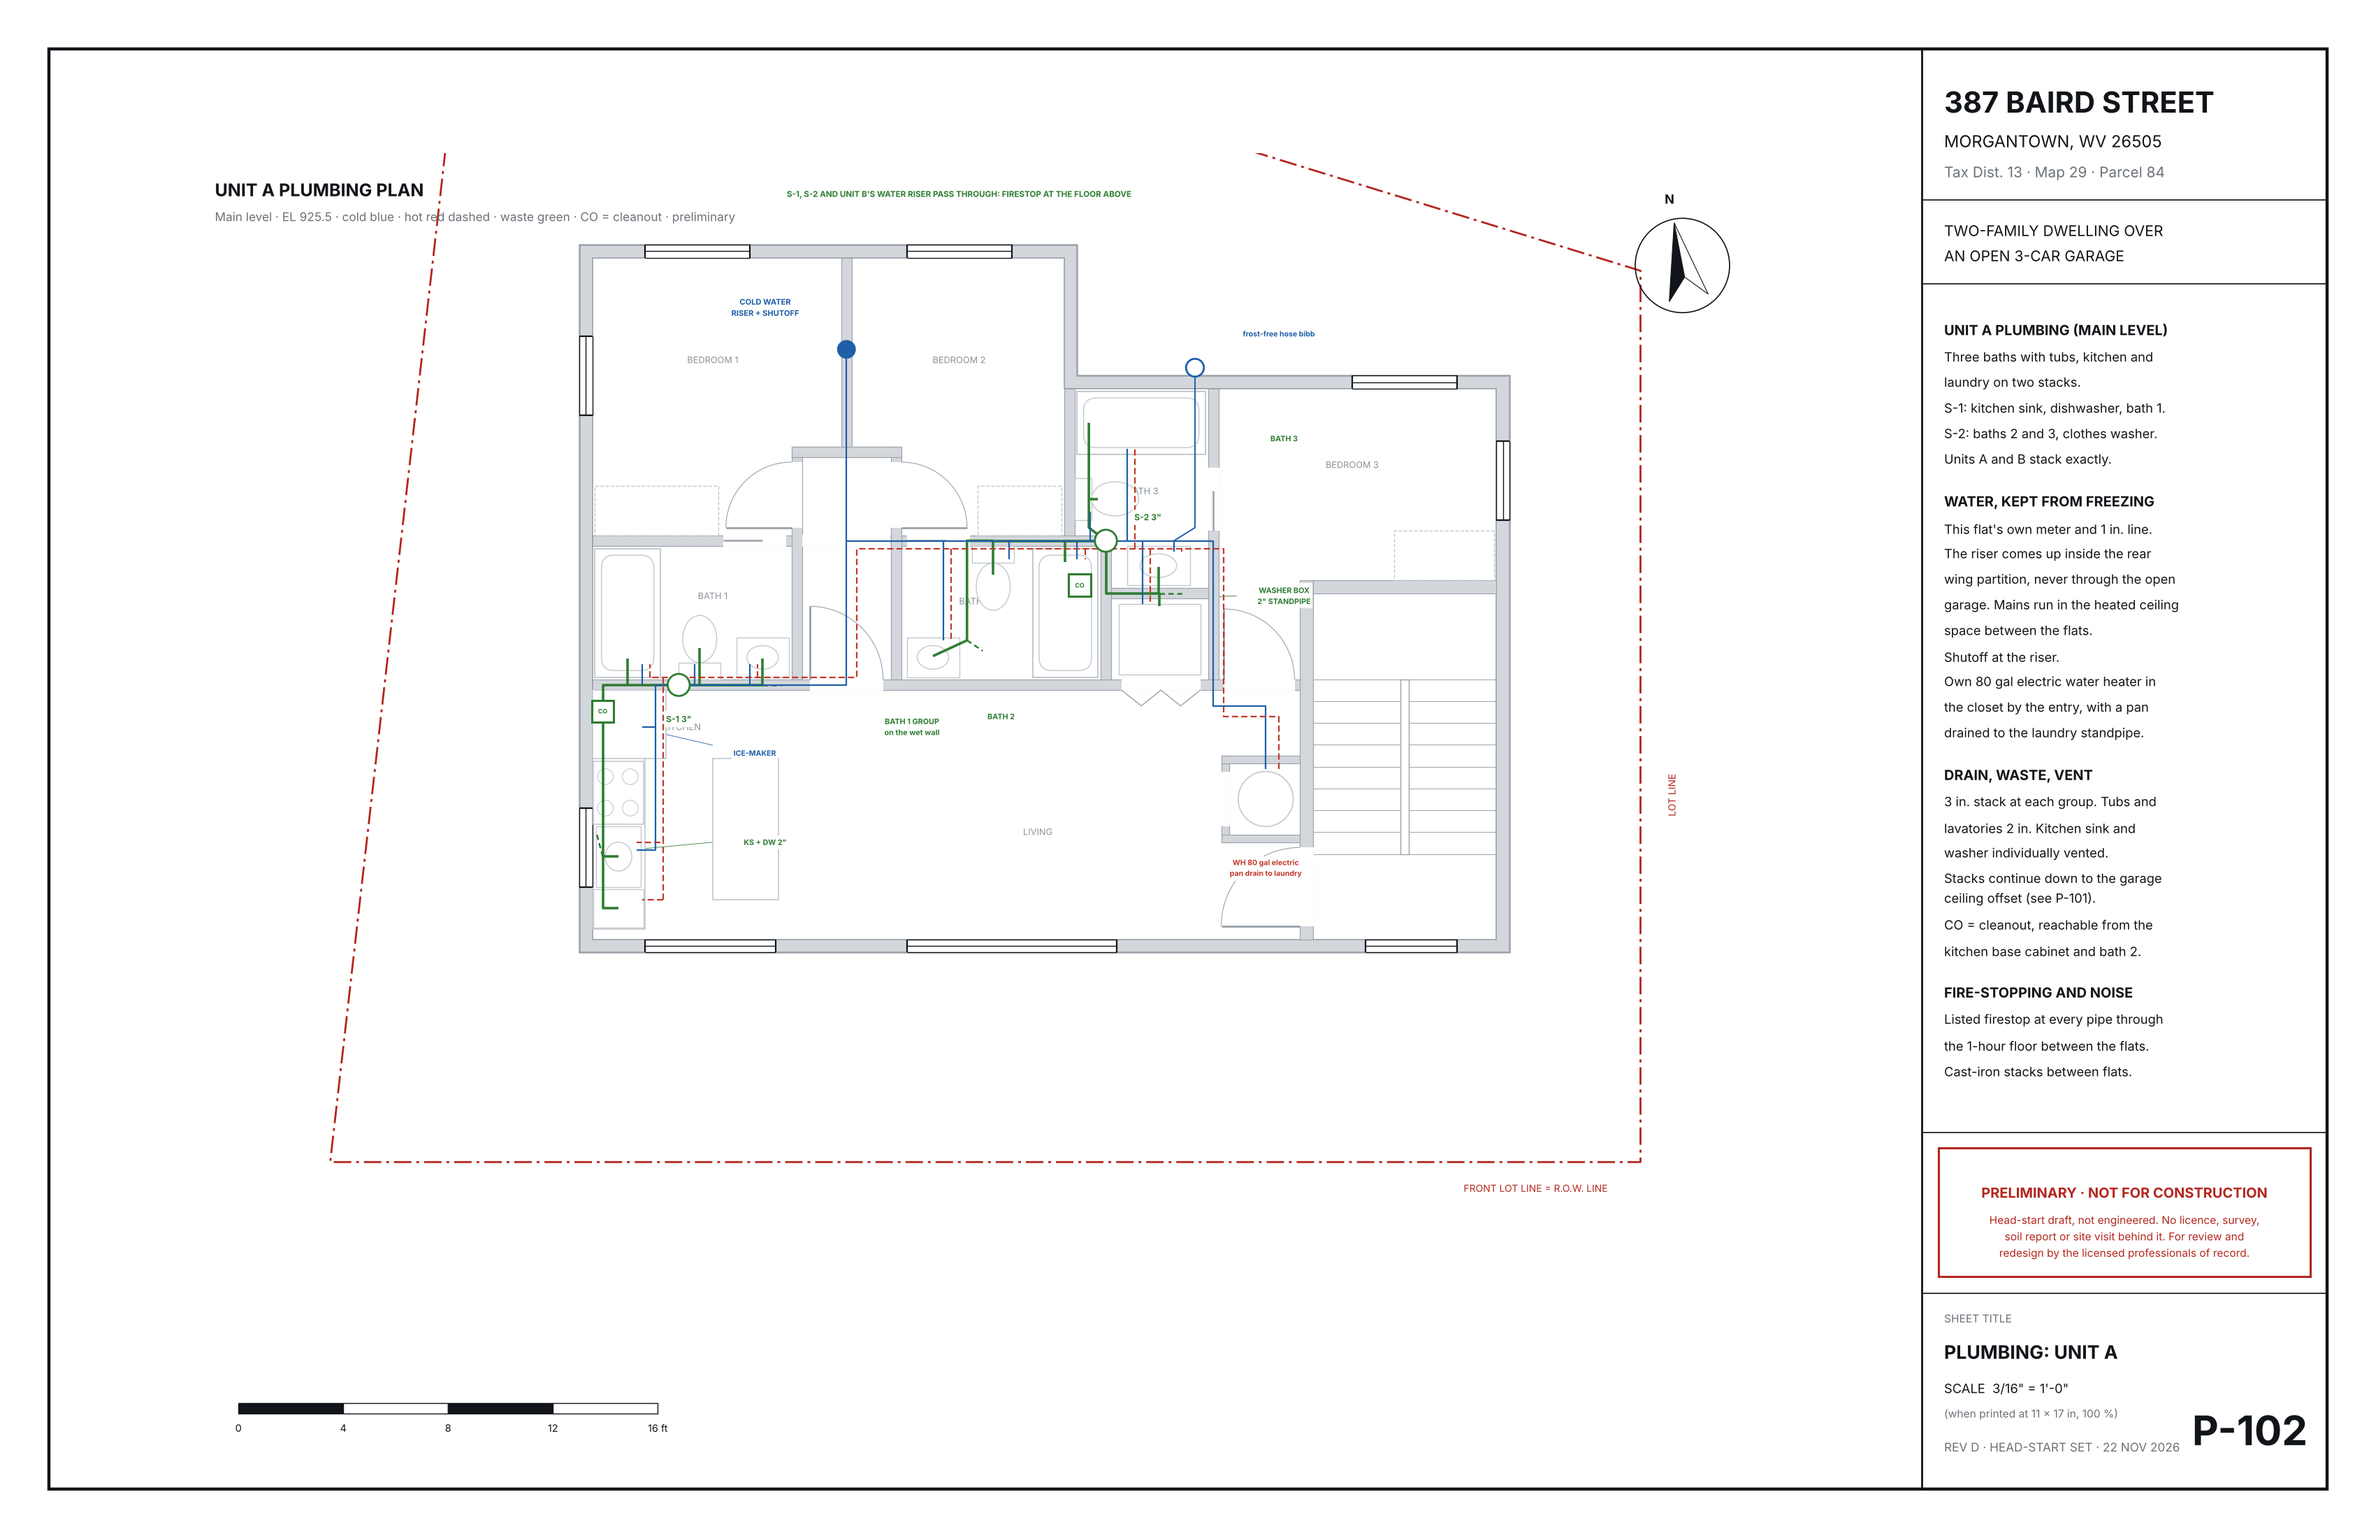
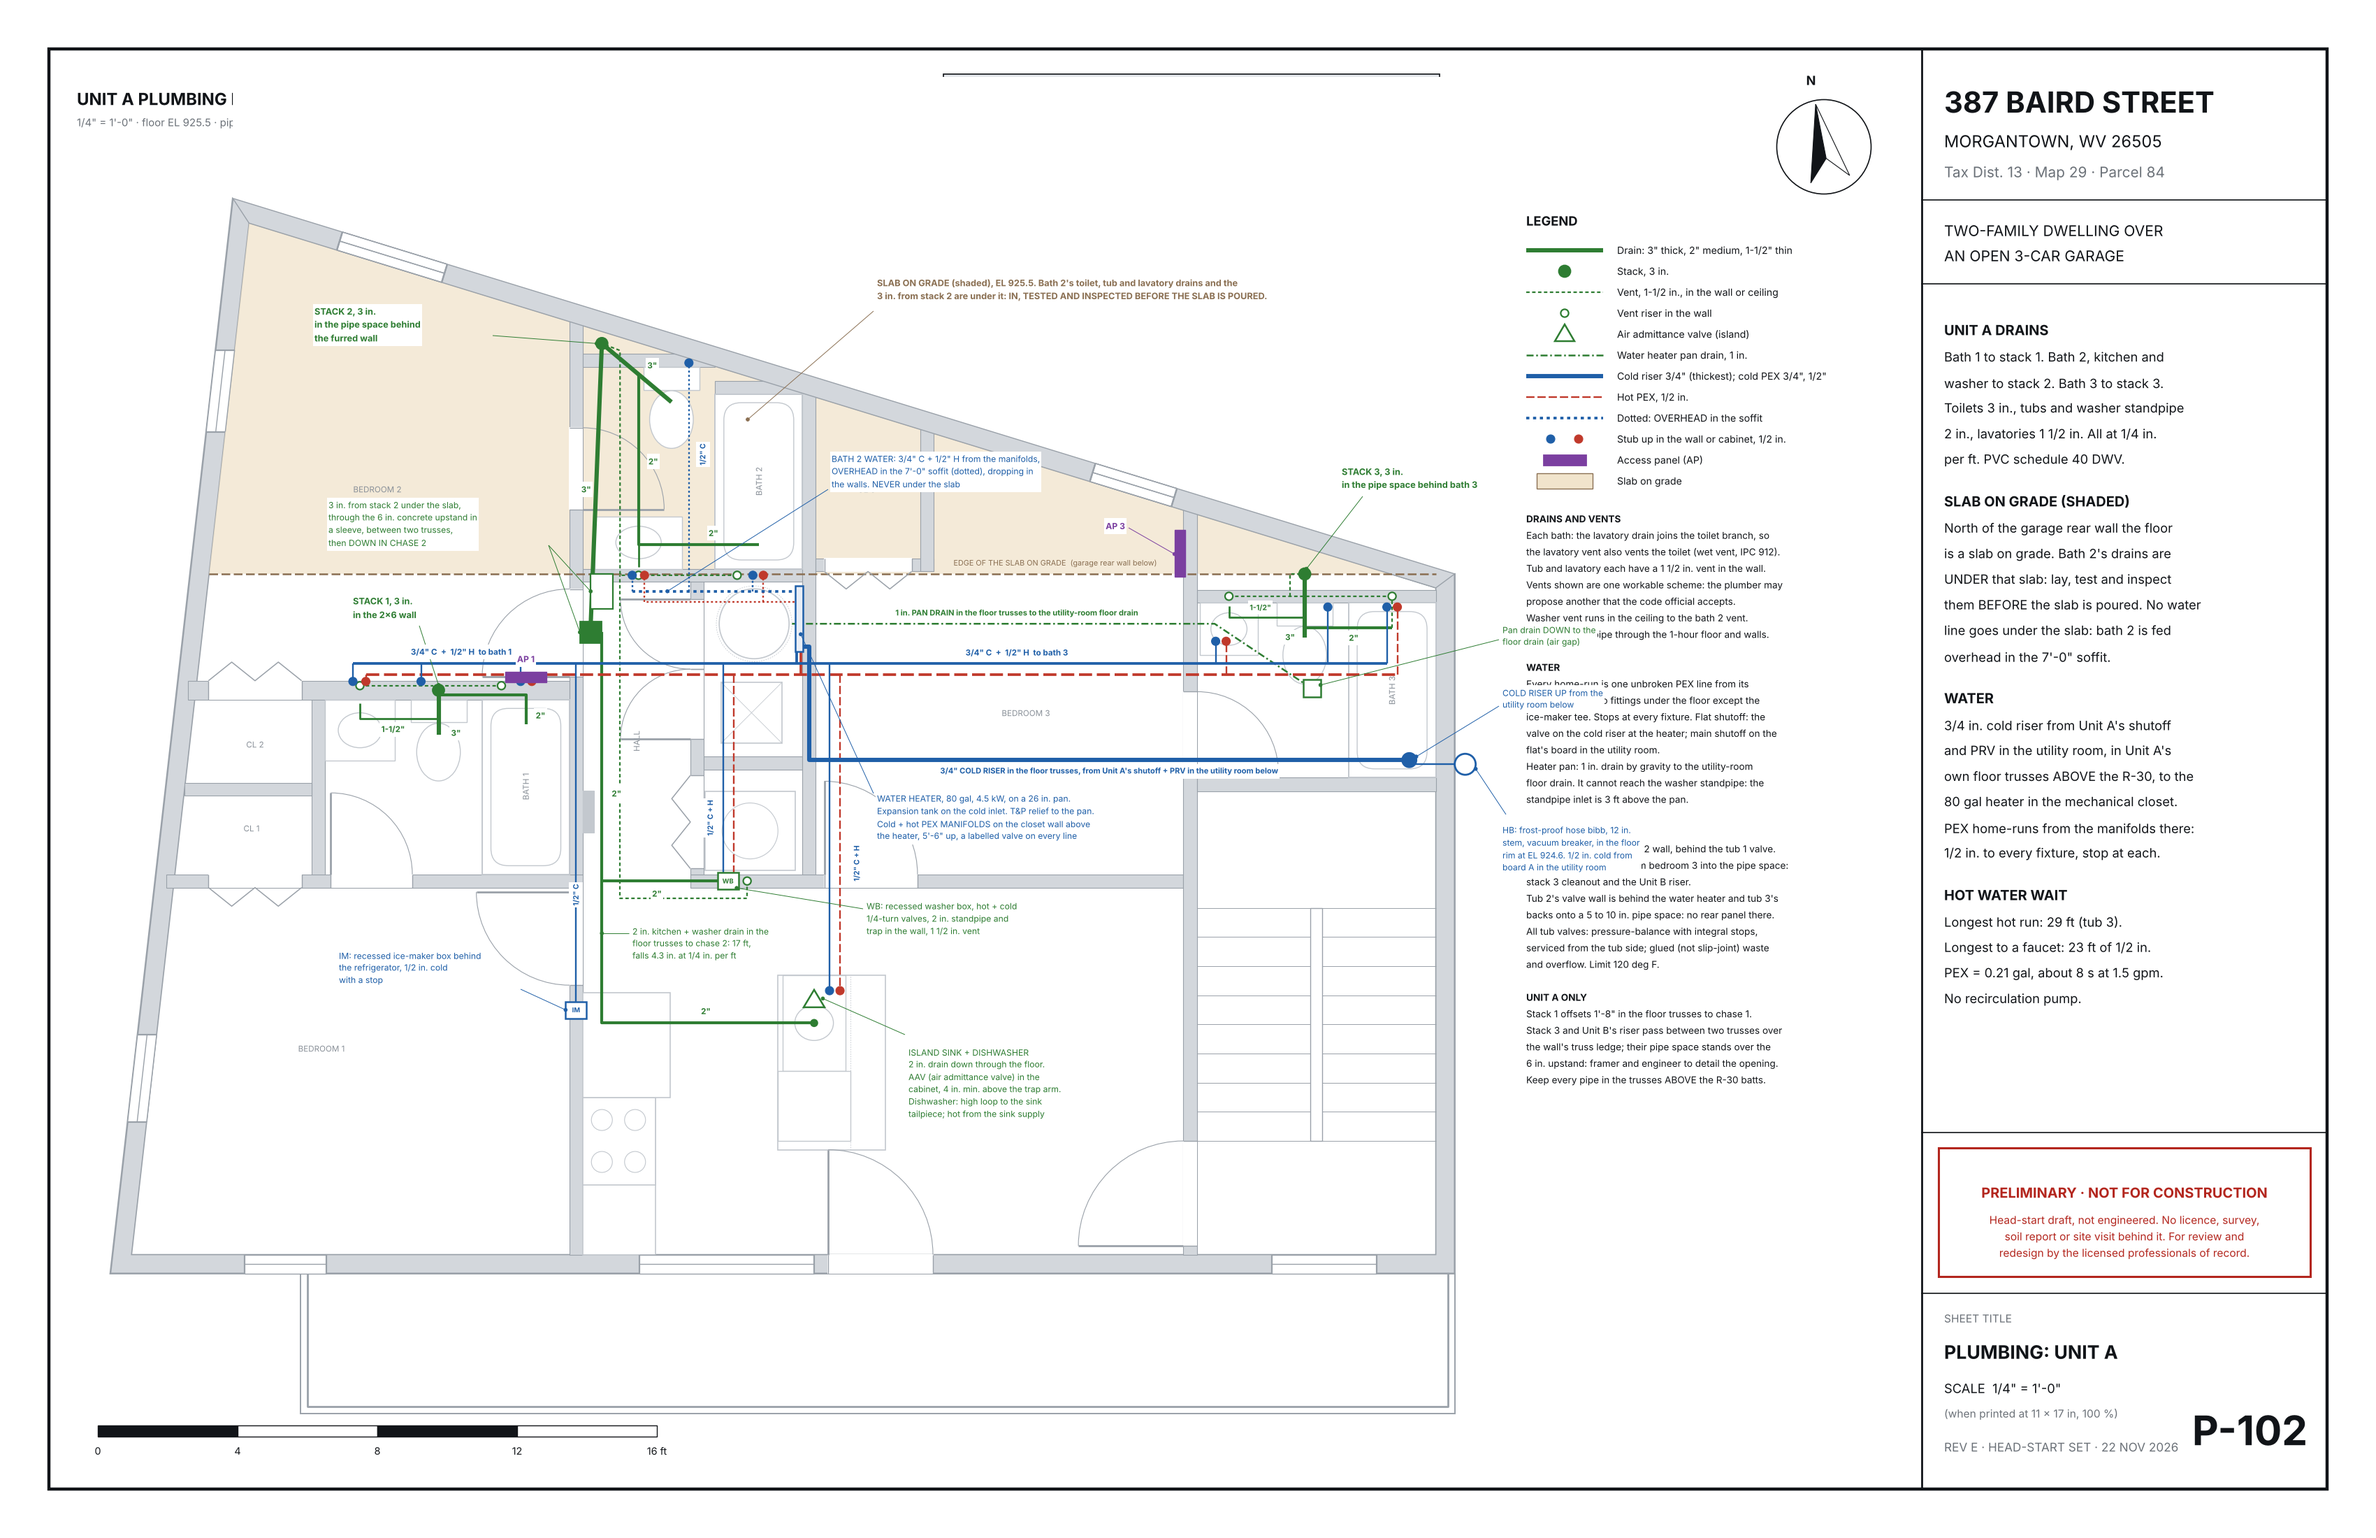
Rev E in progress: remaining trade sheets continuing
Claude-Session: https://claude.ai/code/session_016eFDD5ddAYxvJDci7BiMtr

diff --git a/src/sheets_p.py b/src/sheets_p.py
@@ -576,8 +576,7 @@ def unit_plumbing(ax, unit):
         ax.add_patch(Circle(p, u(ax, 0.028), fc=PAPER, ec=VENT, lw=0.8, zorder=12))
 
     def sz(x, y, s, color=SAN, rot=0, size=4.2):
-        txt(ax, x, y, s, size=size, color=color, weight="bold", rot=rot, z=14,
-            bbox=dict(fc=PAPER, ec="none", pad=0.3))
+        txt(ax, x, y, s, size=size, color=color, weight="bold", rot=rot, z=14, box=True)
 
     # ---------------- bath 1 -> stack 1 ----------------
     wc1 = (m.WCS[0][0], m.WCS[0][1] - 1.0)
@@ -798,7 +797,6 @@ def unit_sheet(pdf, number, unit):
     g = unit_plumbing(ax, unit)
     s1, s2, s3 = m.STACK_1, m.STACK_2, m.STACK_3
     vtr = ", VTR" if not A else ""
-    wbox = dict(fc=PAPER, ec="none", pad=0.3)
 
     # ---------------- labels on the plan ----------------
     note(ax, 13.3, 29.2, f"STACK 1, 3 in.{vtr}\nin the 2x6 wall", to=(s1[0], s1[1] + 0.15), color=SAN, size=4.6, weight="bold", frm=(15.2, 28.7))
@@ -813,20 +811,20 @@ def unit_sheet(pdf, number, unit):
     note(ax, 12.9, 18.9, "IM: recessed ice-maker box behind\nthe refrigerator, 1/2 in. cold\nwith a stop", to=(g["im"][0] - 0.3, g["im"][1]), color=CW, size=4.4, frm=(18.1, 18.3))
     note(ax, 28.3, 23.2, "WATER HEATER, 80 gal, 4.5 kW, on a 26 in. pan.\nExpansion tank on the cold inlet. T&P relief to the pan.\nCold + hot PEX MANIFOLDS on the closet wall above\nthe heater, 5'-6\" up, a labelled valve on every line",
          to=(MAN_X + 0.05, MAN_Y[0] + 0.5), color=CW, size=4.4, frm=(28.2, 23.9))
-    txt(ax, 32.3, YC + 0.3, "3/4\" C  +  1/2\" H  to bath 3", size=4.2, color=CW, weight="bold", z=14, bbox=wbox)
-    txt(ax, 16.4, YC + 0.32, "3/4\" C  +  1/2\" H  to bath 1", size=4.2, color=CW, weight="bold", z=14, bbox=wbox)
-    txt(ax, 32.3, g["yp"] + 0.3, "1 in. PAN DRAIN in the floor trusses to the utility-room floor drain", size=4.0, color=SAN, weight="bold", z=14, bbox=wbox)
-    txt(ax, g["xk"] + 0.78, 21.9, "1/2\" C + H", size=3.8, color=CW, weight="bold", rot=90, z=14, bbox=wbox)
-    txt(ax, g["wb"][0] - 0.5, 23.2, "1/2\" C + H", size=3.8, color=CW, weight="bold", rot=90, z=14, bbox=wbox)
-    txt(ax, g["xwc"] + 0.4, 33.6, "1/2\" C", size=3.8, color=CW, weight="bold", rot=90, z=14, bbox=wbox)
-    txt(ax, g["im"][0], 21.0, "1/2\" C", size=3.8, color=CW, weight="bold", rot=90, z=14, bbox=wbox)
+    txt(ax, 32.3, YC + 0.3, "3/4\" C  +  1/2\" H  to bath 3", size=4.2, color=CW, weight="bold", z=14, box=True)
+    txt(ax, 16.4, YC + 0.32, "3/4\" C  +  1/2\" H  to bath 1", size=4.2, color=CW, weight="bold", z=14, box=True)
+    txt(ax, 32.3, g["yp"] + 0.3, "1 in. PAN DRAIN in the floor trusses to the utility-room floor drain", size=4.0, color=SAN, weight="bold", z=14, box=True)
+    txt(ax, g["xk"] + 0.78, 21.9, "1/2\" C + H", size=3.8, color=CW, weight="bold", rot=90, z=14, box=True)
+    txt(ax, g["wb"][0] - 0.5, 23.2, "1/2\" C + H", size=3.8, color=CW, weight="bold", rot=90, z=14, box=True)
+    txt(ax, g["xwc"] + 0.4, 33.6, "1/2\" C", size=3.8, color=CW, weight="bold", rot=90, z=14, box=True)
+    txt(ax, g["im"][0], 21.0, "1/2\" C", size=3.8, color=CW, weight="bold", rot=90, z=14, box=True)
     lab(ax, g["tx1"], m.Y4 + 0.62, "AP 1", APC, size=4.4)
     note(ax, 35.4, 31.55, "AP 3", to=(m.X_ST - 0.25, 30.75), color=APC, size=4.4, weight="bold", ha="right", frm=(35.5, 31.5))
     note(ax, 27.0, 33.1, "BATH 2 WATER: 3/4\" C + 1/2\" H from the manifolds,\nOVERHEAD in the 7'-0\" soffit (dotted), dropping in\nthe walls" + (". NEVER under the slab" if A else ", same as Unit A below"),
          to=(22.3, g["yoc"]), color=CW, size=4.4, frm=(26.9, 32.6))
     if A:
         txt(ax, (RISER_X + RISE_A[0]) / 2, RISE_A[1] - 0.32, "3/4\" COLD RISER in the floor trusses, from Unit A's shutoff + PRV in the utility room below", size=4.0, color=CW,
-            weight="bold", z=14, bbox=wbox)
+            weight="bold", z=14, box=True)
         note(ax, 28.3, 38.3, "SLAB ON GRADE (shaded), EL 925.5. Bath 2's toilet, tub and lavatory drains and the\n3 in. from stack 2 are under it: IN, TESTED AND INSPECTED BEFORE THE SLAB IS POURED.",
              to=(24.6, 34.6), color=EARTH, size=4.6, weight="bold", frm=(28.2, 37.7))
         txt(ax, 33.4, m.Y_GR_O + 0.3, "EDGE OF THE SLAB ON GRADE  (garage rear wall below)", size=3.9, color=EARTH, z=7)
@@ -838,7 +836,7 @@ def unit_sheet(pdf, number, unit):
              to=(RISE_A[0] + 0.2, RISE_A[1] + 0.1), color=CW, size=4.4, frm=(46.1, 26.4))
         note(ax, 46.2, 28.4, "Pan drain DOWN to the\nfloor drain (air gap)", to=(g["pend"][0] + 0.25, g["pend"][1] + 0.1), color=SAN, size=4.4, frm=(46.1, 28.3))
     else:
-        txt(ax, 32.3, RISE_B[1] + 0.32, "3/4\" COLD RISER in the floor trusses to the heater", size=4.0, color=CW, weight="bold", z=14, bbox=wbox)
+        txt(ax, 32.3, RISE_B[1] + 0.32, "3/4\" COLD RISER in the floor trusses to the heater", size=4.0, color=CW, weight="bold", z=14, box=True)
         note(ax, 45.6, 33.6, "COLD RISER UP this pipe space from\nUnit B's shutoff + PRV in the utility\nroom, on the room side of the wall\ninsulation. Pan drain goes DOWN it\nto the utility-room floor drain",
              to=(RISE_B[0] + 0.2, RISE_B[1] + 0.1), color=CW, size=4.4, frm=(45.5, 33.0))
         note(ax, 27.0, 39.0, "VTR: each stack continues 3 in. through the roof, 12 in. above it, on the rear slope.\nUnit A's 2 in. vent risers come up beside each stack and join it 42 in. above this floor.",

diff --git a/src/sheets_e.py b/src/sheets_e.py
@@ -938,7 +938,7 @@ def sheet_e105(pdf):
     bw = (XST - 0.3, 15.6)
     lowv(ax, bw, "DB")
     arrow(ax, (bw[0] + 0.5, bw[1]), (bw[0] + 1.9, bw[1]), color=DAT)
-    tag(ax, 33.2, 14.3, "BELL WIRE 18/2 DOWN THE\nSTAIR WALL TO THIS FLAT'S\nBUTTON AT THE STREET DOOR", DAT, size=4.2, weight="normal")
+    tag(ax, 33.9, 17.6, "BELL WIRE 18/2 DOWN THE\nSTAIR WALL TO THIS FLAT'S\nBUTTON AT THE STREET DOOR", DAT, size=4.2, weight="normal")
 
     # garage-level strip
     gl = 0.55 + (47.5 - 3.0) / FPI + 0.25
